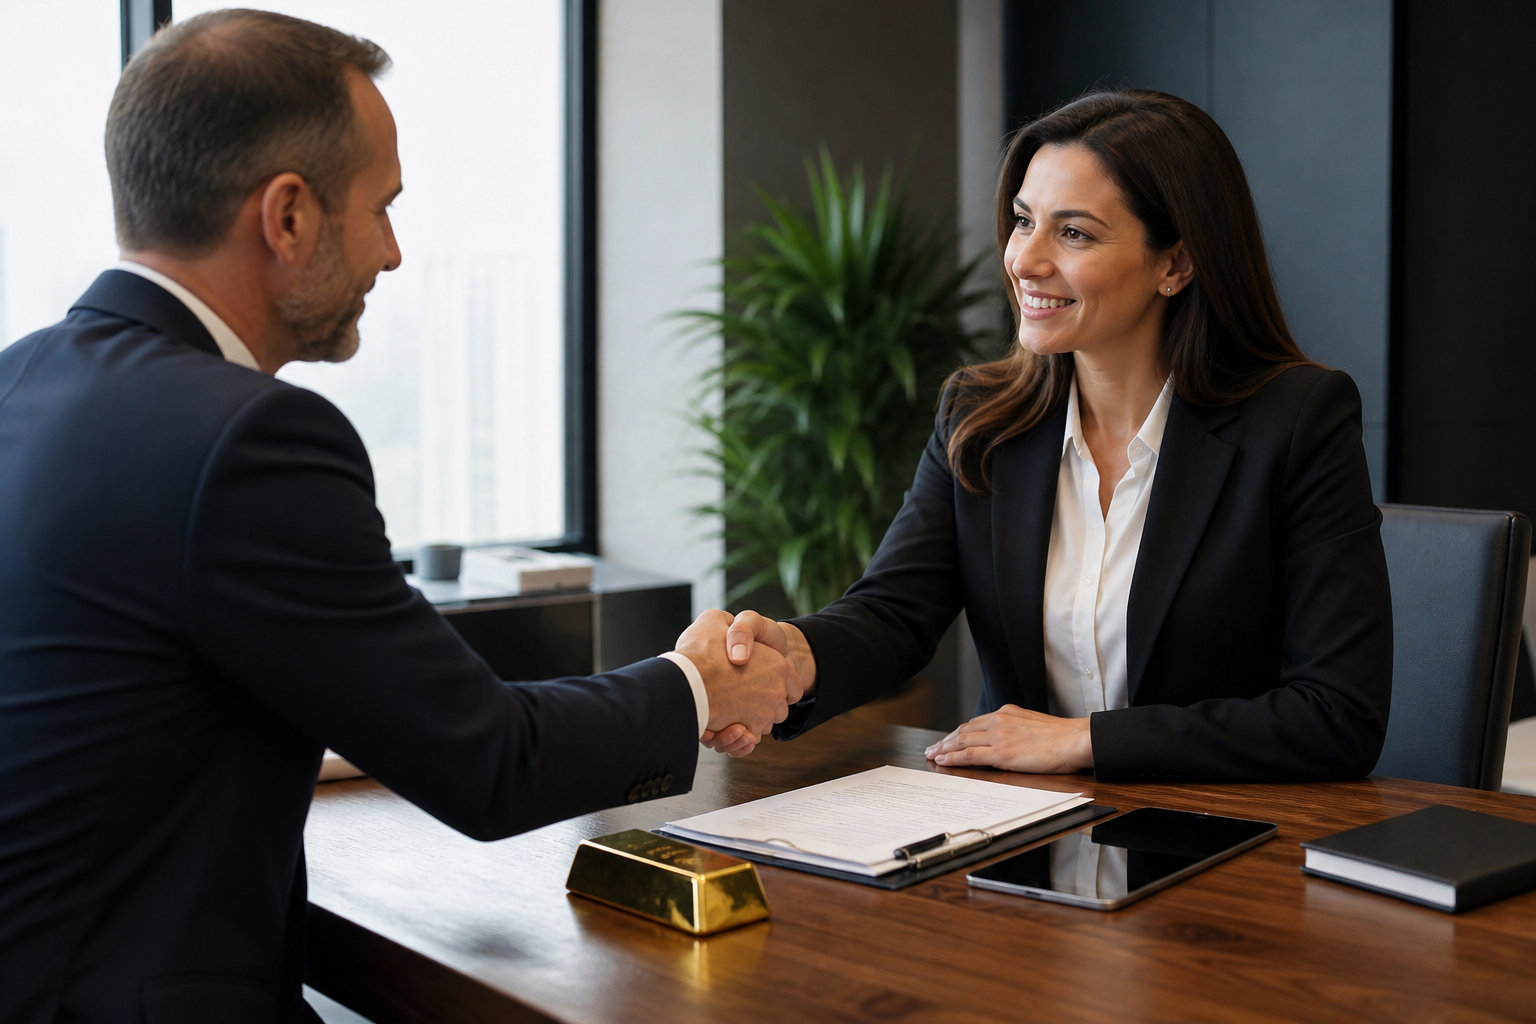
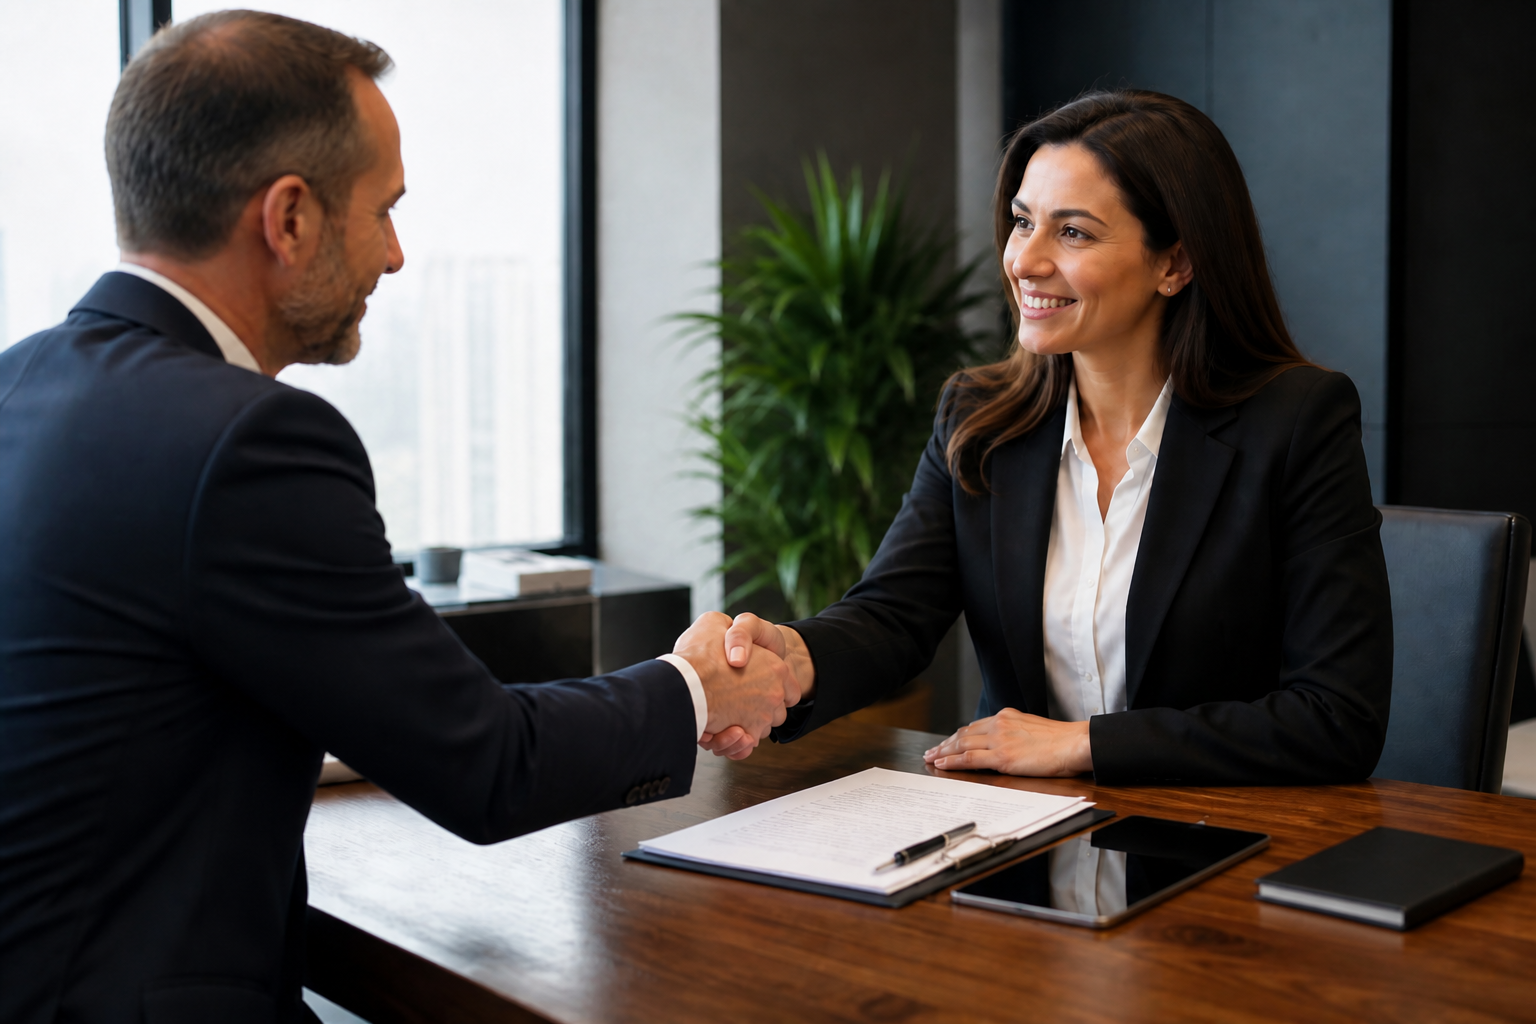
Foto Como trabalhamos sem barra de ouro.

diff --git a/index.html b/index.html
@@ -1509,7 +1509,7 @@
     <section class="safe-band">
       <div class="wrap safe-grid">
         <figure class="reveal">
-          <img src="assets/photo-fechamento.png?v=1" alt="Fechamento de acordo com documentação e confiança" />
+          <img src="assets/photo-fechamento.png?v=2" alt="Fechamento de acordo com documentação e confiança" />
         </figure>
         <div class="safe-copy reveal">
           <div class="label">Como trabalhamos</div>
